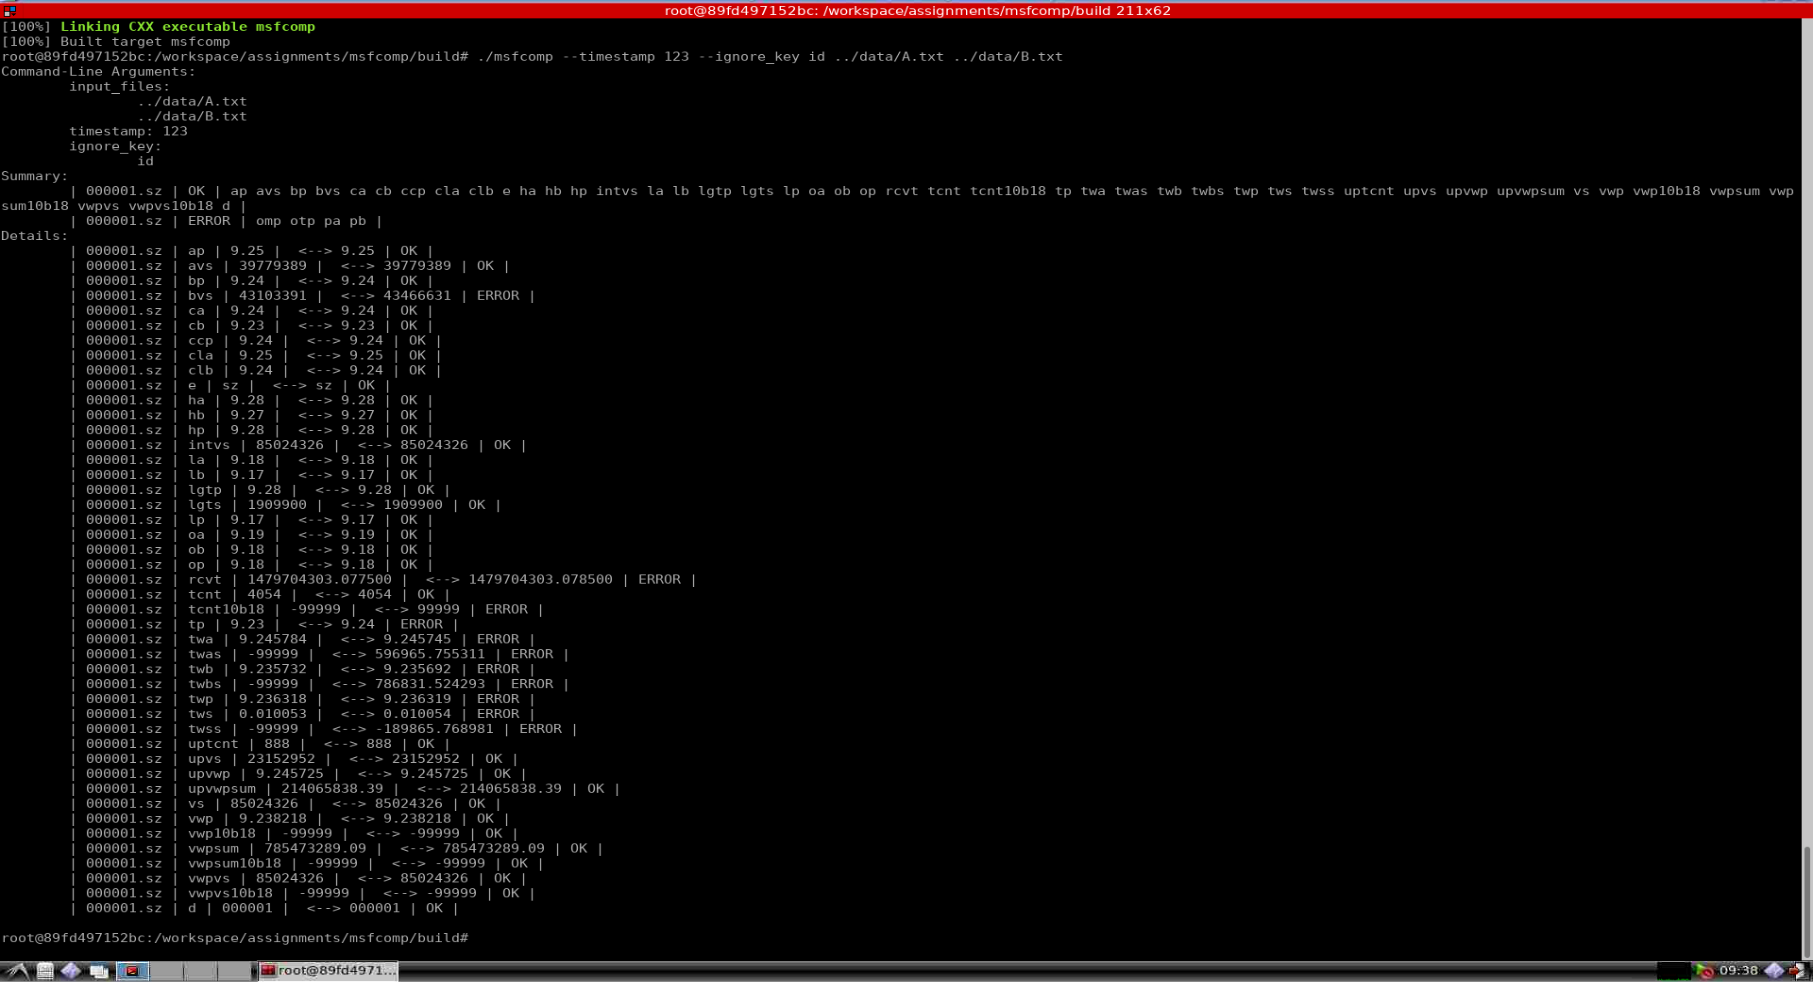
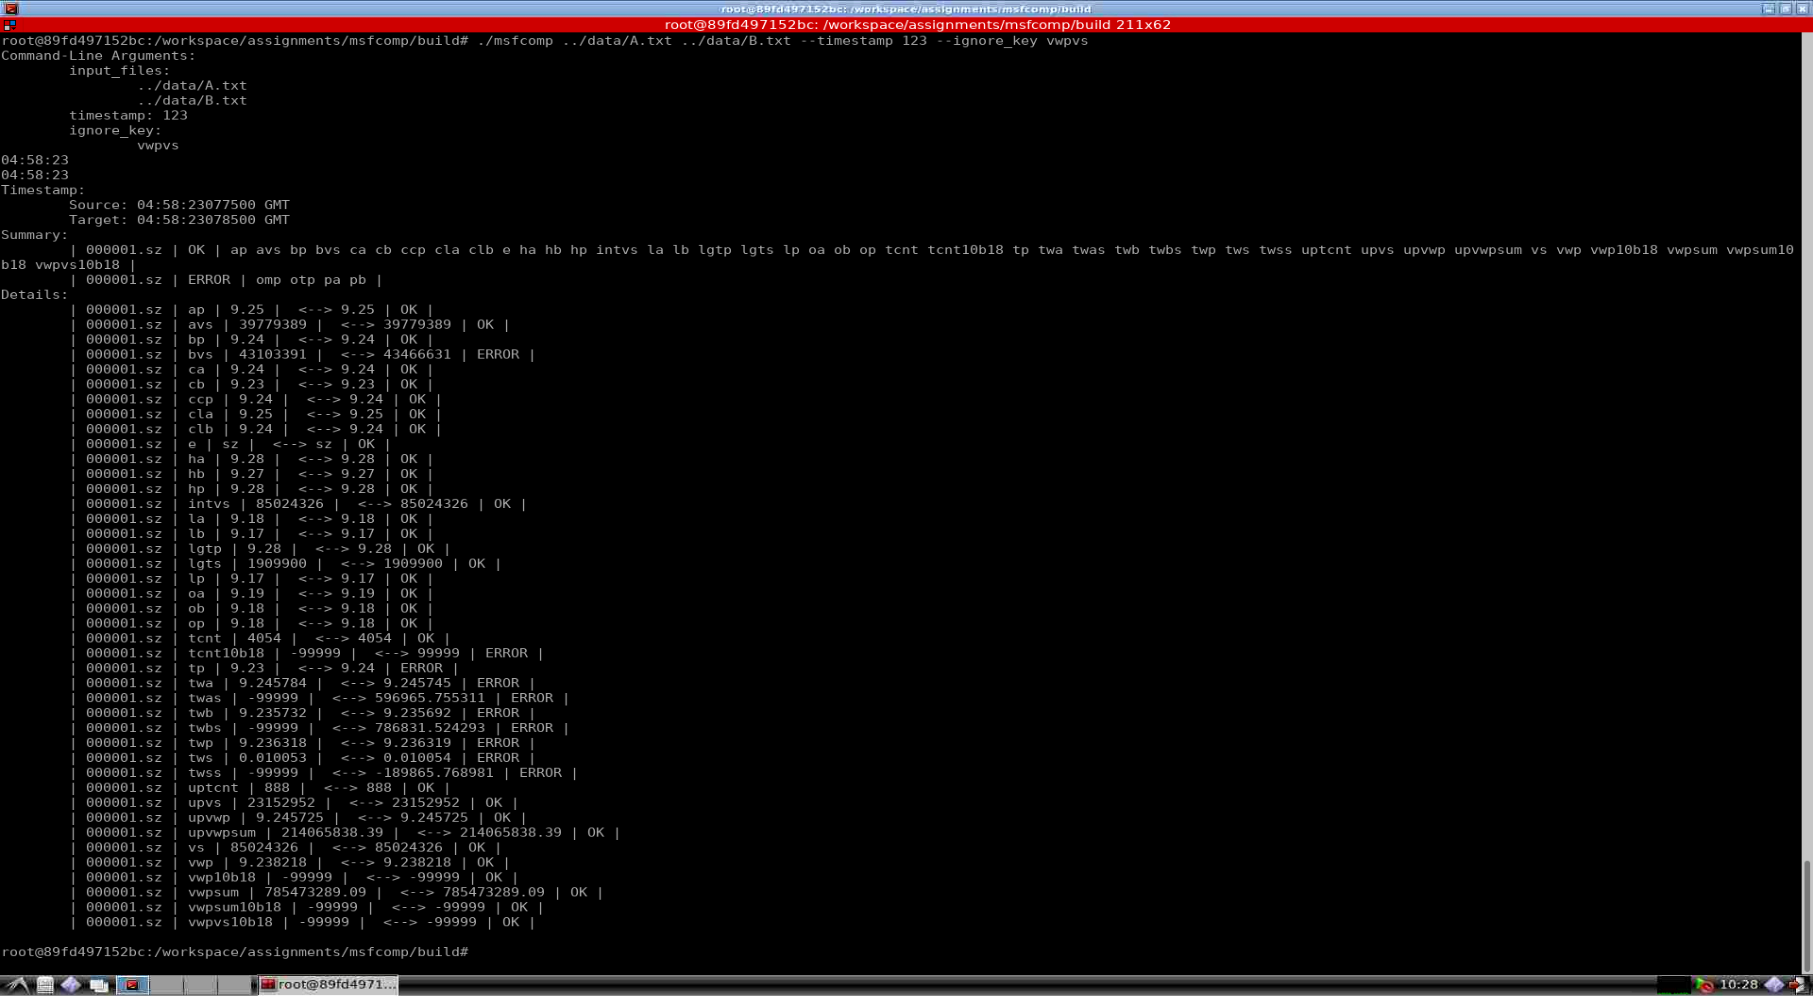
finish all questions.

diff --git a/workspace/assignments/msfcomp/src/record.cpp b/workspace/assignments/msfcomp/src/record.cpp
@@ -3,11 +3,25 @@
 #include <iostream>
 #include <sstream>
 
+#include <ctime>
+#include <locale>
+
 #include <set>
 
+#include <boost/lexical_cast.hpp>
 #include <boost/regex.hpp>
 
 namespace msfcomp {
+
+void FormatTime(const double &epoch_time, char* time_output) {
+    // std::locale::global(std::locale("ja_JP.utf8"));
+    std::time_t t = static_cast<int>(epoch_time);
+    struct tm * timeinfo = std::localtime(&t);
+
+    if (std::strftime(time_output, 64, "%H:%M:%S", timeinfo)) {
+        std::cout << time_output << std::endl;;
+    }
+}
 
 bool Record::Load(const std::string &content) {
     boost::regex regex_content(CONTENT_FORMAT);
@@ -40,7 +54,7 @@ bool Record::Load(const std::string &content) {
     return false;
 }
 
-void Record::Compare(Record &record, const std::vector<std::string> &ignore_keys) {
+void Record::Compare(Record &record, const int &timestamp, const std::vector<std::string> &ignore_keys) {
     // init ignore key set:
     std::set<std::string> ignore_key_set;
     for (const std::string &ignore_key: ignore_keys) {
@@ -54,19 +68,33 @@ void Record::Compare(Record &record, const std::vector<std::string> &ignore_keys
     const std::string id = fields_.find("id")->second;
     const std::string market = fields_.find("/e")->second;
     const std::string signature = id + "." + market;
+    
+    // create timestamp:
+    const std::string &source_rcvt = fields_.find("/rcvt")->second;
+    const std::string &target_rcvt = record.fields_.find("/rcvt")->second;
+
+    char source_time[64], target_time[64];
+
+    double source_epoch_time = boost::lexical_cast<double>(source_rcvt) + timestamp;
+    double target_epoch_time = boost::lexical_cast<double>(target_rcvt) + timestamp;
+
+    FormatTime(source_epoch_time, source_time);
+    FormatTime(target_epoch_time, target_time);
 
     // output buffers:
     std::stringstream fields_ok, fields_error;
     std::stringstream details;
 
     for (const auto &field: fields_) {
-        // identify field:
+        // identify key:
         const std::string &key = field.first;
 
-        if (!key.compare("id")) {
+        // skip id and timestamp:
+        if (!key.compare("id") || !key.compare("/rcvt")) {
             continue;
         }
 
+        // identify field name:
         const std::string field_name = key.substr(1, std::string::npos);
 
         // skip keys in ignore key set:
@@ -102,7 +130,10 @@ void Record::Compare(Record &record, const std::vector<std::string> &ignore_keys
     }
 
     // display comparison results:
-    std::cout << "Summary:" << std::endl
+    std::cout << "Timestamp:" << std::endl
+              << "\tSource: " << source_time << "." << source_rcvt.substr(11, std::string::npos) << " GMT" << std::endl
+              << "\tTarget: " << target_time << "." << target_rcvt.substr(11, std::string::npos) << " GMT" << std::endl
+              << "Summary:" << std::endl
               << "\t| " << signature << " | OK | " << fields_ok.str() << "|" << std::endl
               << "\t| " << signature << " | ERROR | " << fields_error.str() << "|" << std::endl
               << "Details:" << std::endl

diff --git a/workspace/assignments/msfcomp/include/record.hpp b/workspace/assignments/msfcomp/include/record.hpp
@@ -11,7 +11,7 @@ namespace msfcomp {
     public:
         Record(void) {}
         bool Load(const std::string &content);
-        void Compare(Record &record, const std::vector<std::string> &ignore_keys);
+        void Compare(Record &record, const int &timestamp, const std::vector<std::string> &ignore_keys);
 
         inline static const std::string CONTENT_FORMAT = "^id\\s(\\w+)\\s(\\/\\w+\\s(\\w+|-*?\\d+|-*?\\d+\\.\\d+)\\s)+\\/;$";
         inline static const std::string KEY_VALUE_FORMAT = "(id|\\/\\w+)\\s(\\w+|-*?\\d+|-*?\\d+\\.\\d+)\\s";

diff --git a/workspace/assignments/msfcomp/src/main.cpp b/workspace/assignments/msfcomp/src/main.cpp
@@ -80,7 +80,7 @@ int main(int argc, char *argv[]) {
                 return EXIT_FAILURE; 
             } else {
                 // perform compare:
-                source.Compare(target, ignore_keys);
+                source.Compare(target, timestamp, ignore_keys);
             }
         }
     }
